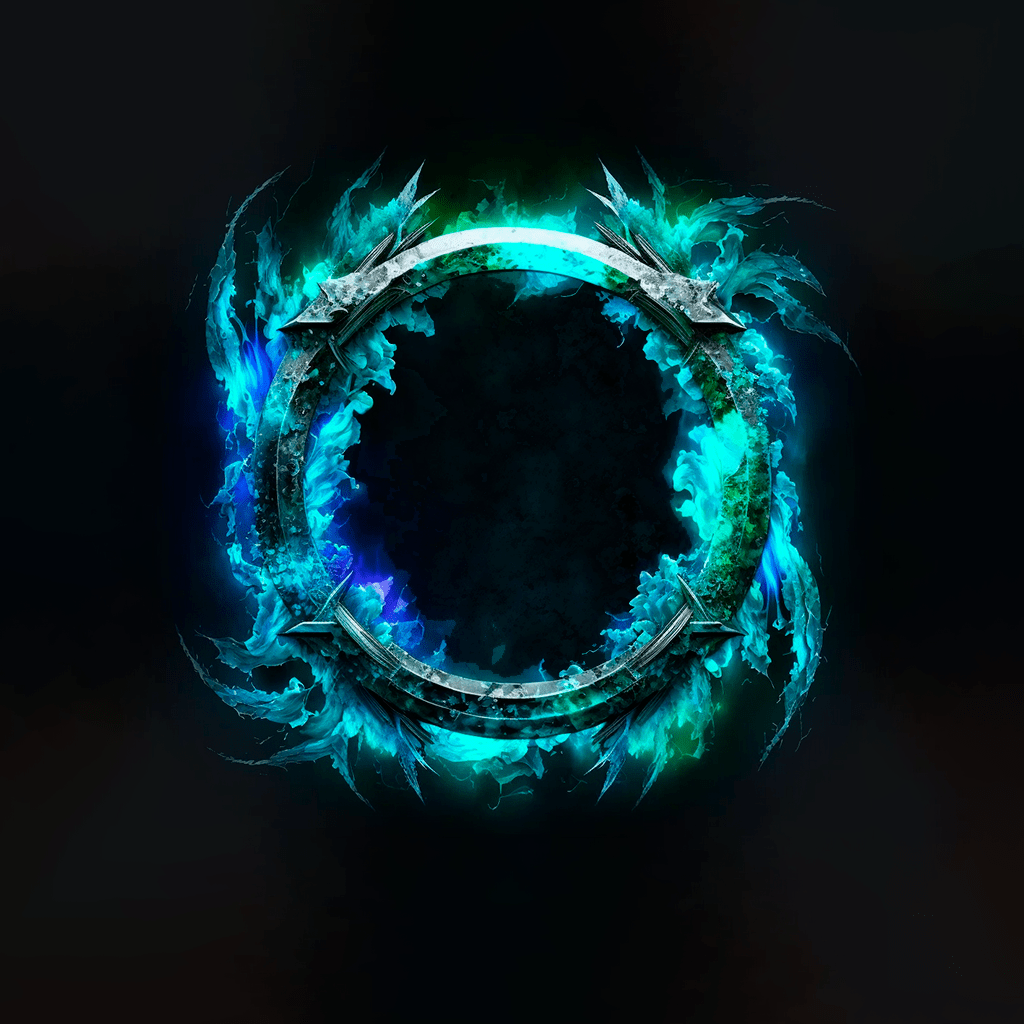
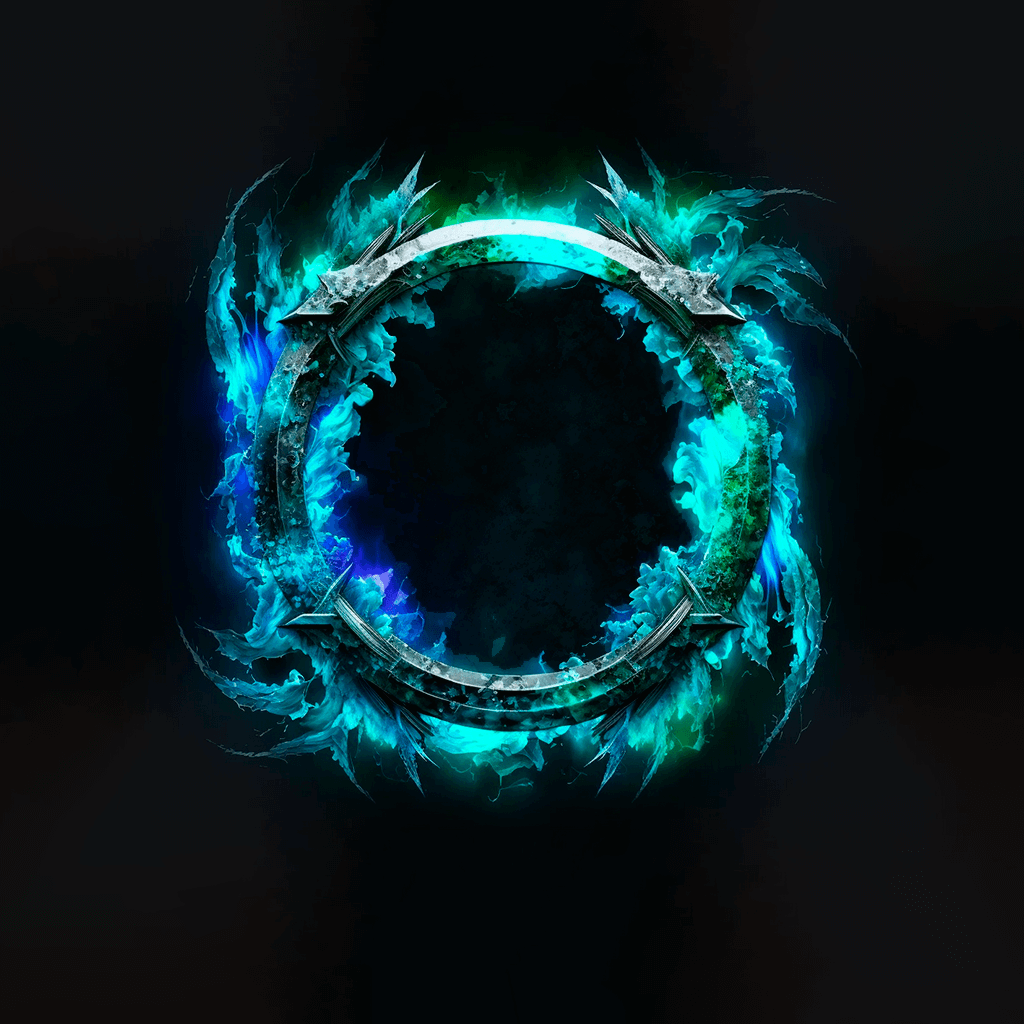
Ach: improved wreath #3

Changed region(s): [[0.1562, 0.1562, 0.8438, 0.7812]]

diff --git a/app/tools/debug/dbg_achievements.py b/app/tools/debug/dbg_achievements.py
@@ -171,13 +171,13 @@ async def main():
     app = LpAppFramework()
     async with app(brief=True):
         # await demo_debug_logic(app)
-        # await demo_run_pipeline_test(app, descending=True, spec='')
         # await demo_achievements_picture(Language.ENGLISH, A.ANNIVERSARY, 3, 3)
         # await demo_achievements_picture(Language.RUSSIAN, A.ANNIVERSARY, 2, 2)
         # await demo_achievements_picture(Language.ENGLISH, A.COIN_MARKET_CAP_RANK, 10, 11, descending=True)
         # await demo_achievements_picture(Language.RUSSIAN, A.COIN_MARKET_CAP_RANK, 10, 11, descending=True)
         # await demo_all_achievements()
-        await demo_run_pipeline_coin_rank(app)
+        # await demo_run_pipeline_coin_rank(app)
+        await demo_run_pipeline_test(app, spec='')
 
 
 if __name__ == '__main__':
